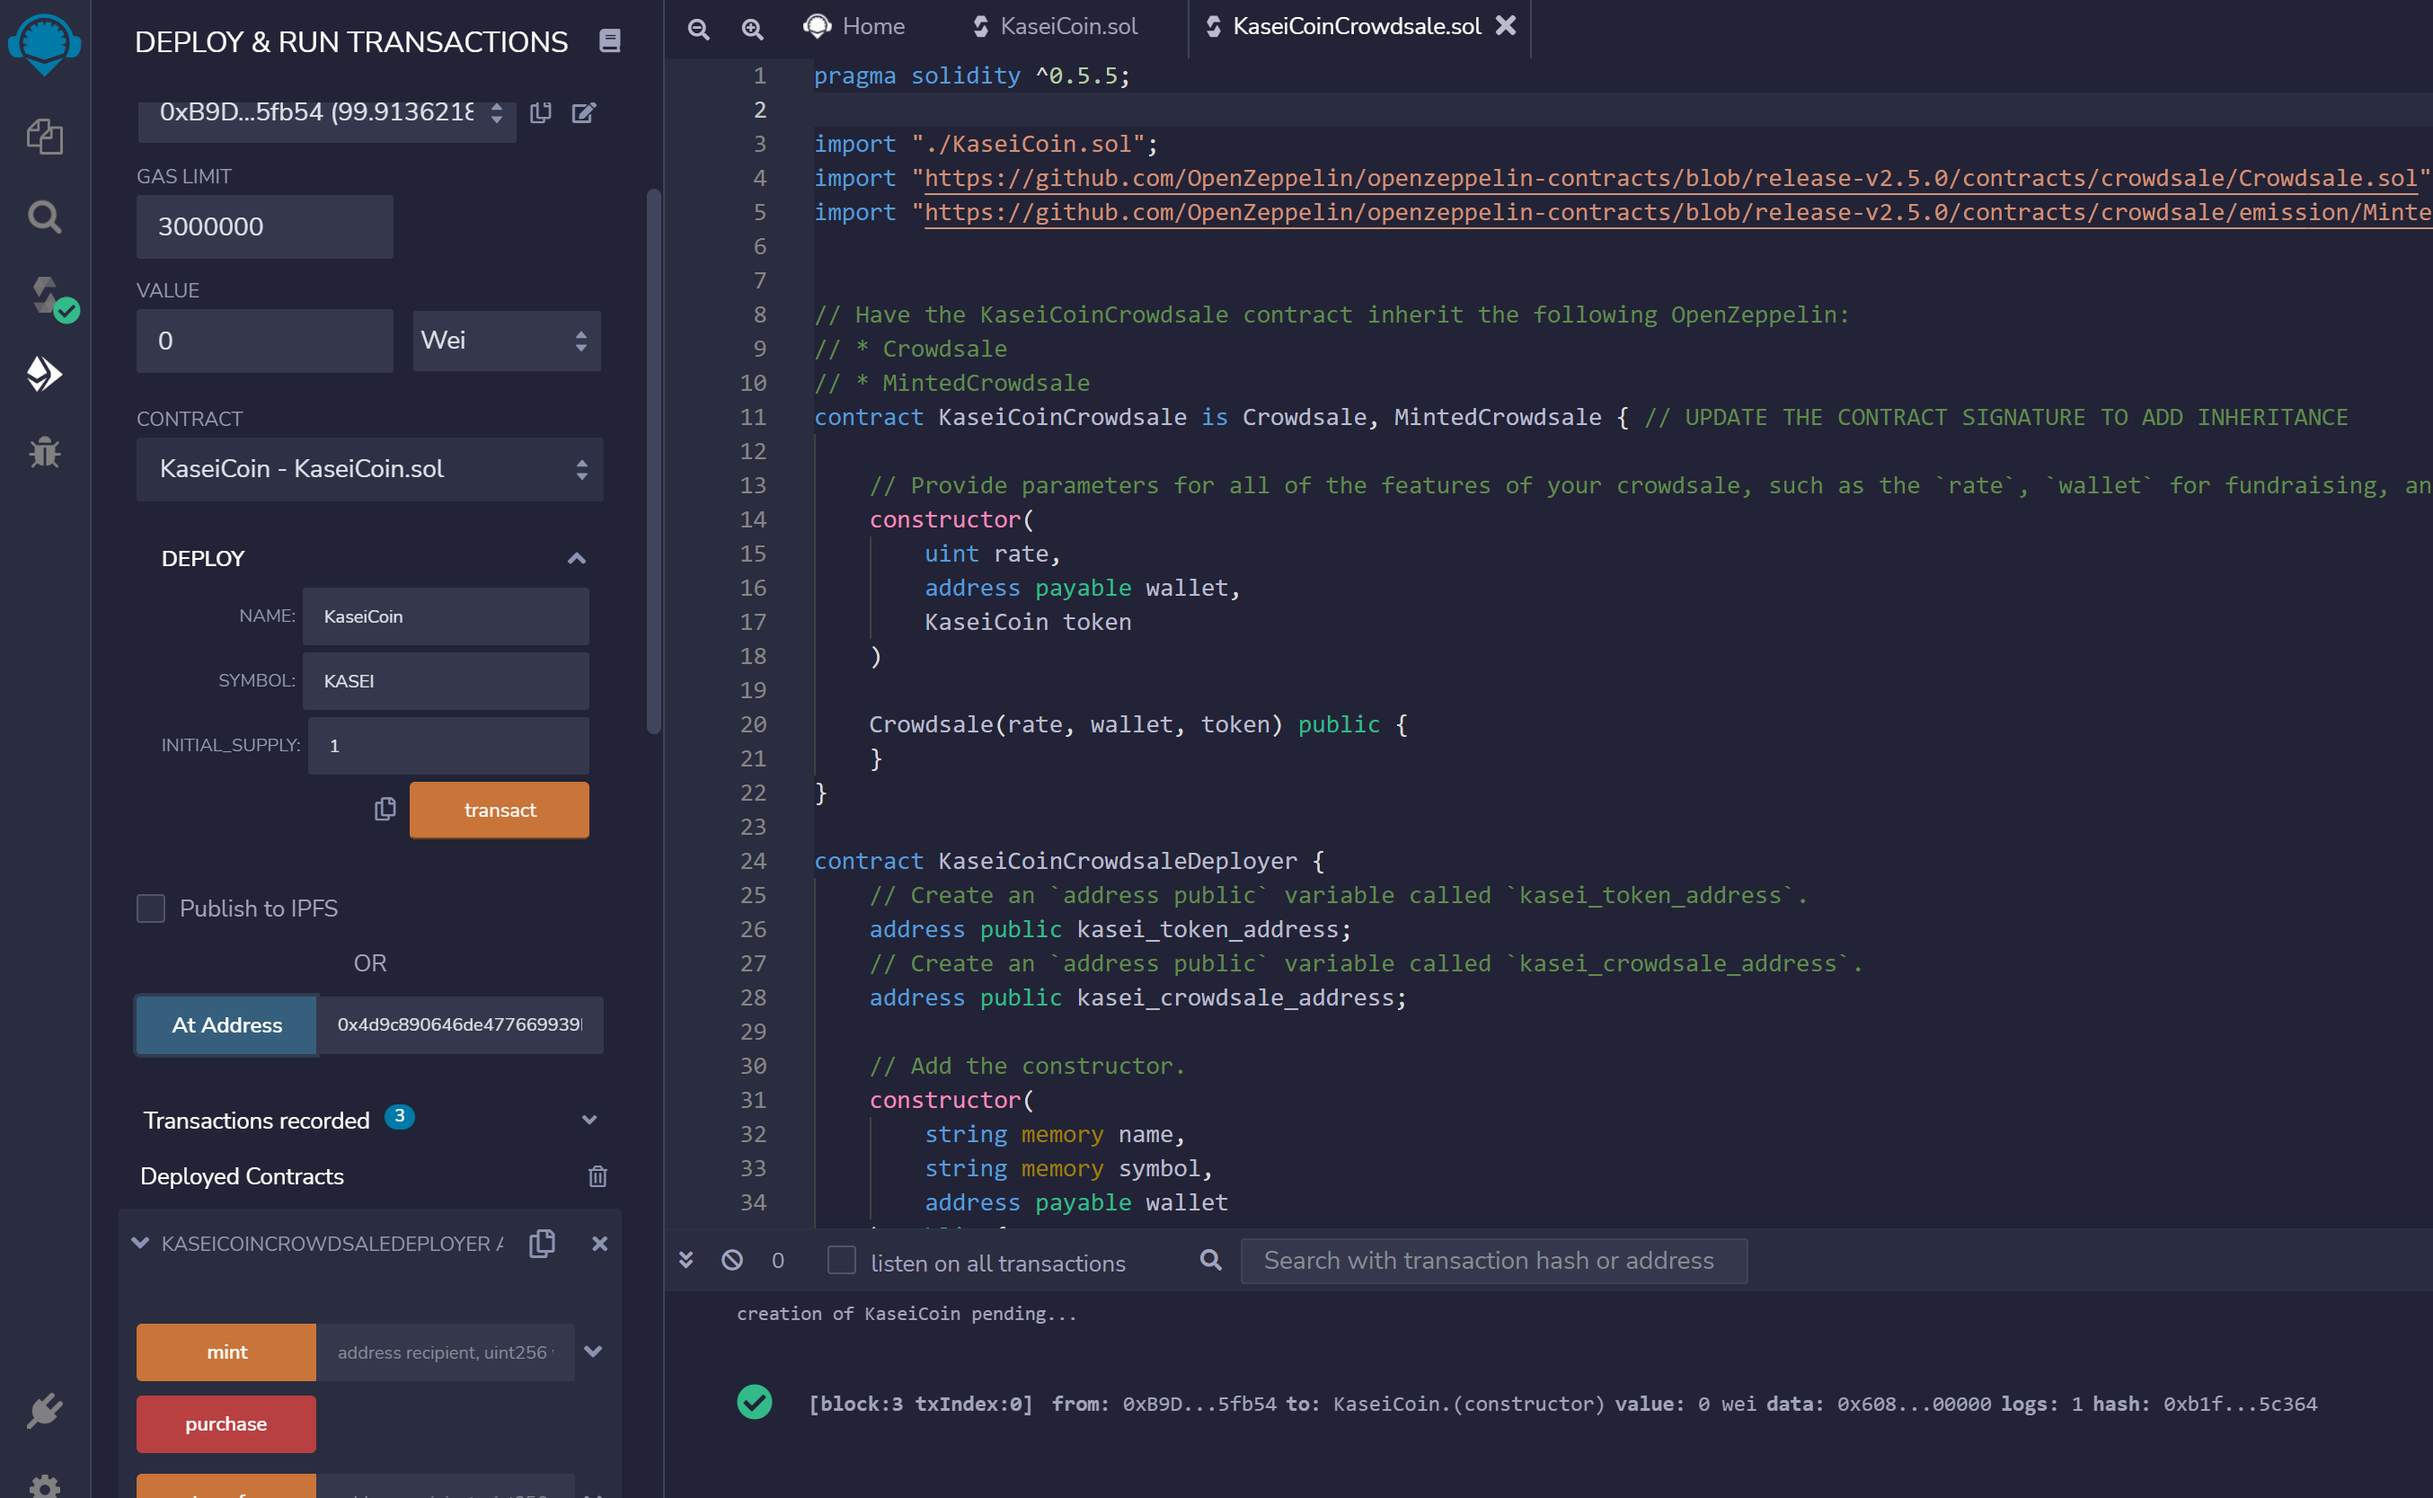
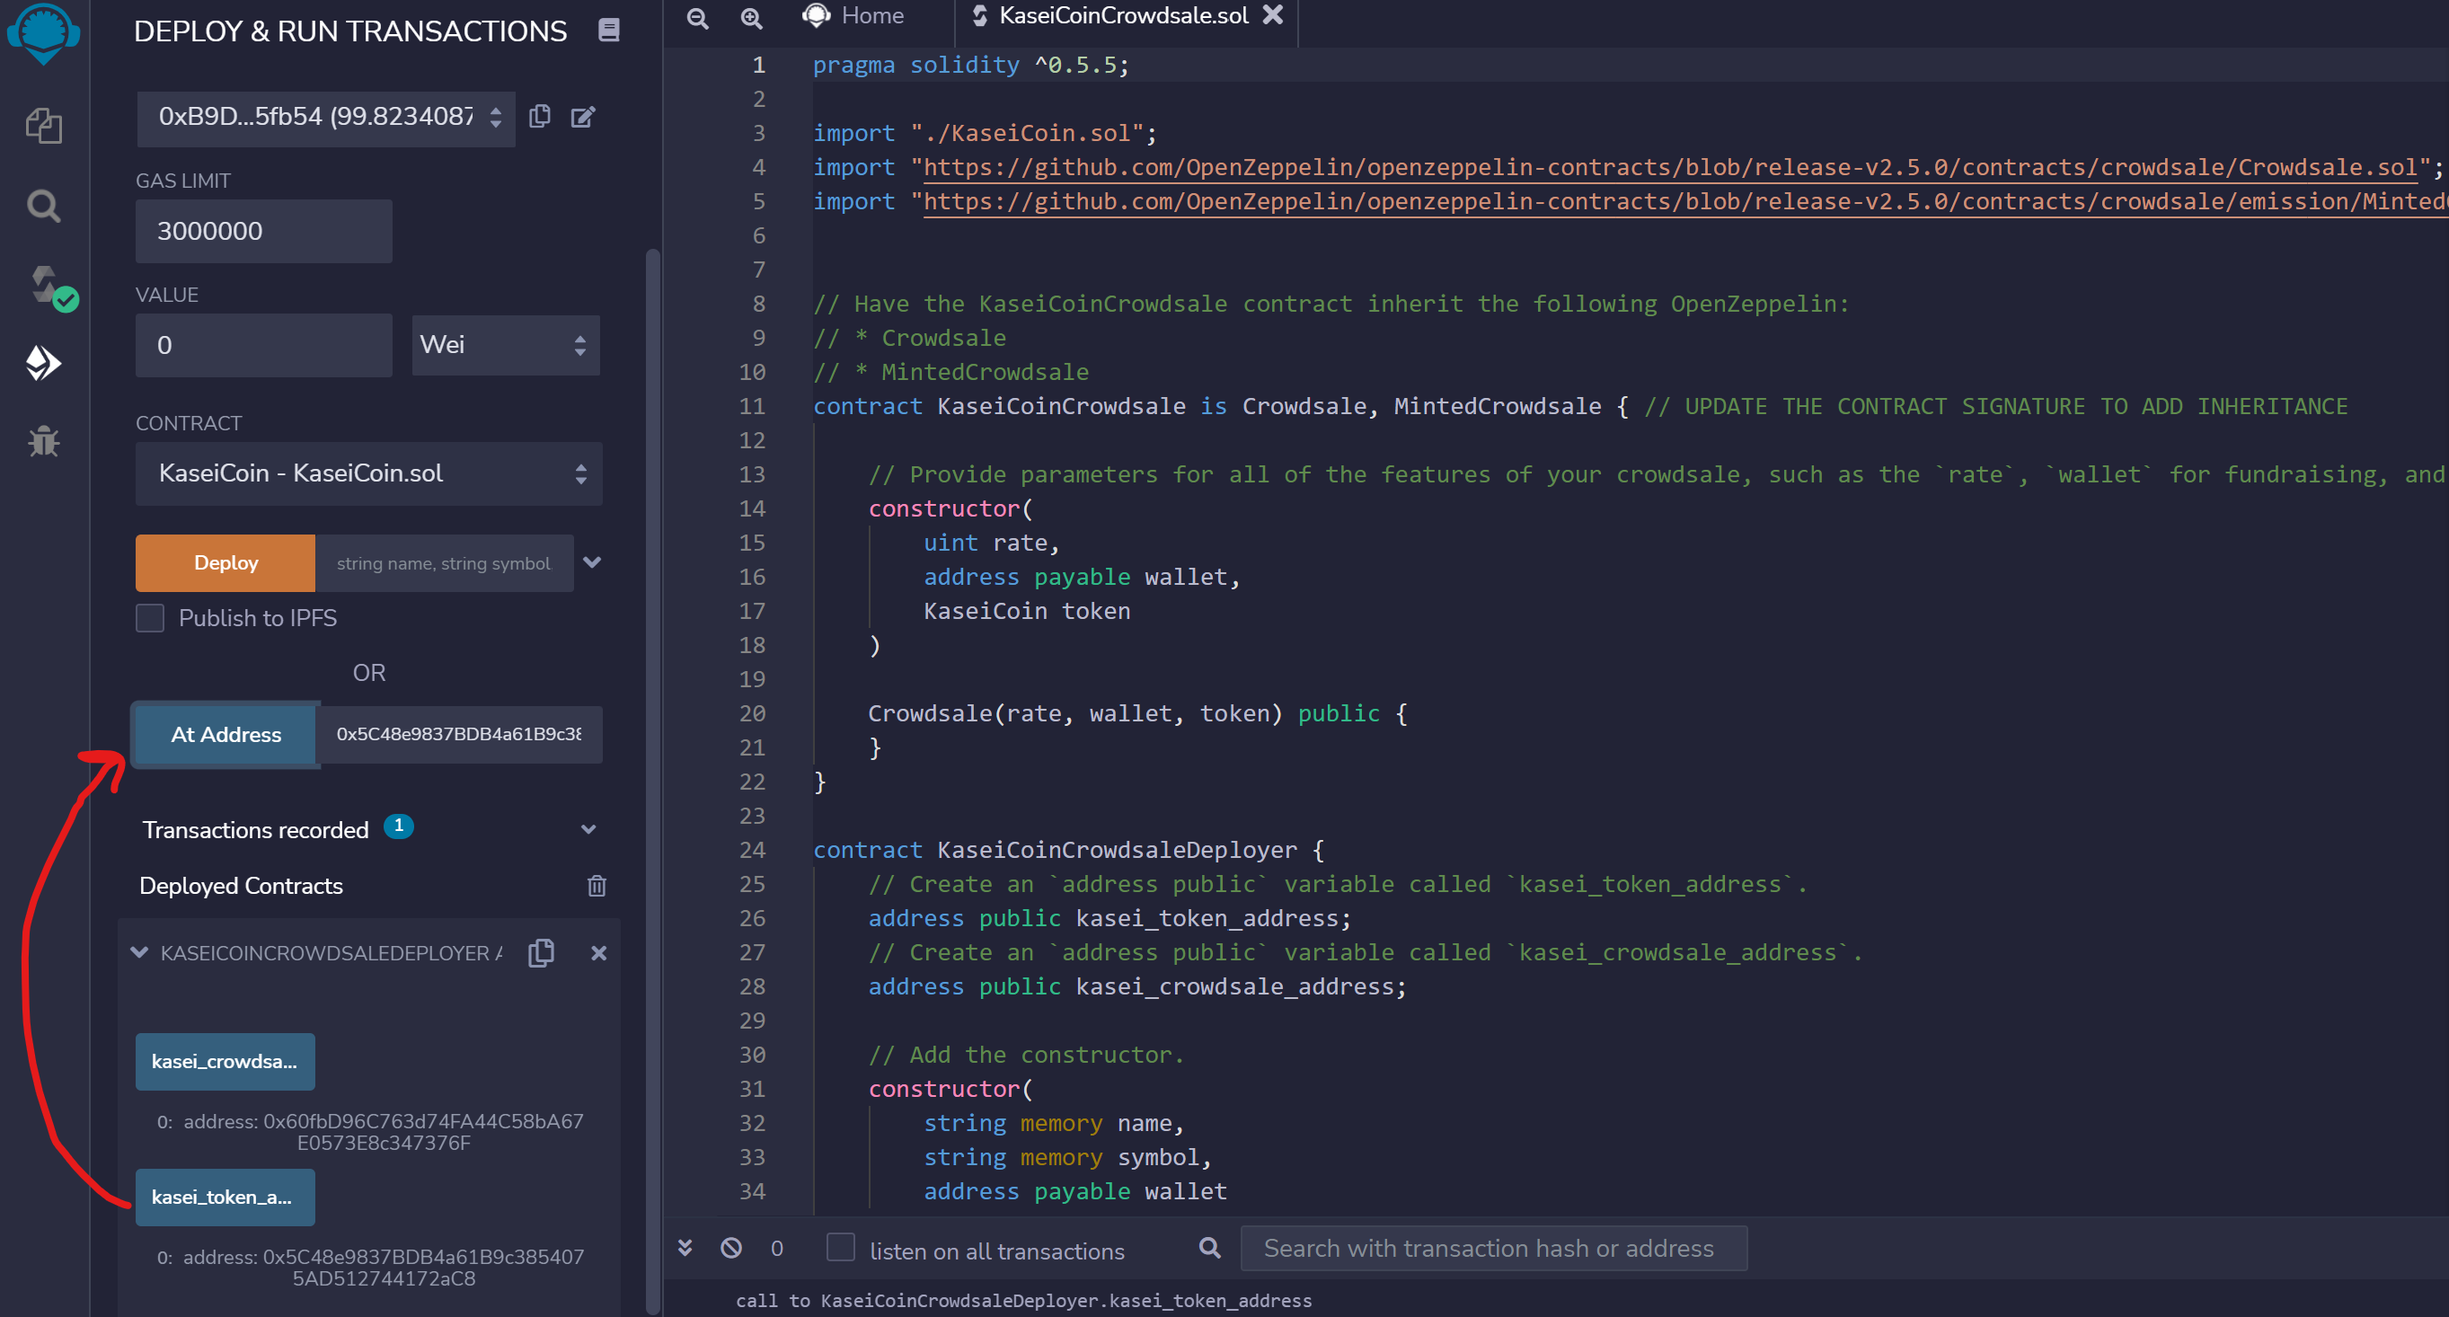
Updated readme and supporting images

diff --git a/README.md b/README.md
@@ -20,10 +20,12 @@ Install the Metamask browser extension and Ganache before running this program.
 The challenge is hosted on the following GitHub repository at: https://github.com/nguyenthuyt/kasei_coin   
 
 ### **Run instructions:**
-To run this project, simply clone the repository or download the files. Open a Remix IDE web browser instance and navigate to the directory that contains the follwing files:
+To run this project, simply clone the repository or download the files. Open a Remix IDE web browser instance and navigate to the directory that contains the following files:
 **KaseiCoin.sol**
 **KaseiCoinCrowdsale**
 
+and deploy the following contract:
+**KaseiCoincrowdsaleDeployer**
 
 ## Remix IDE Deployment
 To compile and deploy the file using the following steps:
@@ -32,11 +34,37 @@ To compile and deploy the file using the following steps:
 - From the Contract menu, select the KaseiCoinCrowdsaleDeployer
 - Fill in the input fields for Name, Symbol, and Wallet and select Transact
 
-
-
 ![Remix Compile](Evaluation_Evidence/KaseiCoinCrowdsaleDeployer.PNG)
 
-- An instance of Metamask will appear
+- An instance of Metamask will appear asking to confirm the transaction. Click confirm to proceed.
+
+- Link the KaseiCoin contract to the KaseiCoinCrowdsaleDeployer contract by copying the address from the 'kasei_token_address' variable and pasting it into the At Address text box. Click the 'At address' button to link the contract
+![Remix Coin Link](Evaluation_Evidence/link_kaseiCoin.PNG)
+
+- Repeat the same steps as above to link the KaseiCoinCrowdsale contract but using the 'kasei_crowdsale_address'
+![Remix Crowdsale Link](Evaluation_Evidence/link_kaseiCoinCrowdsale.PNG)
+
+## Test Purchase of Tokens
+
+- In the value input box, specify an amount to purchase. In this instance, we selected 5 wei.
+![Remix Buy Tokens](Evaluation_Evidence/buy_tokens_wei.PNG)
+
+- From the KaseiCoinCrowdsale contract, in the field next to 'Buy Tokens', insert a beneficiary (investor) address and click the 'Buy Tokens' button
+![Remix Buy Tokens](Evaluation_Evidence/buy_tokens.PNG)
+
+- To verify, the transaction was processed, scroll down to 'balanceOf' and insert the beneficiary address and click the 'balanceOf' button. In this instance, the beneficiary account has increased to 5 KaseiCoin.
+
+![Remix Buy Tokens](Evaluation_Evidence/buy_tokens_check_balance.PNG)
+
+## View Total Supply of Minted Tokens & Wei Raised
+
+- To view the total supply of minted tokens, navigate to the KaseiCoin contract and click on 'totalSupply'
+![Remix Minted Tokens](Evaluation_Evidence/totalsupply.PNG)
+
+
+- To view the total wei raised from the crowdsale, navigate to the KaseiCoinCrowdsale contract and click on 'weiRaised'
+![Remix Wei Raised](Evaluation_Evidence/crowdsale_balance.PNG)
+
 
 
 ## Evaluation Evidence
